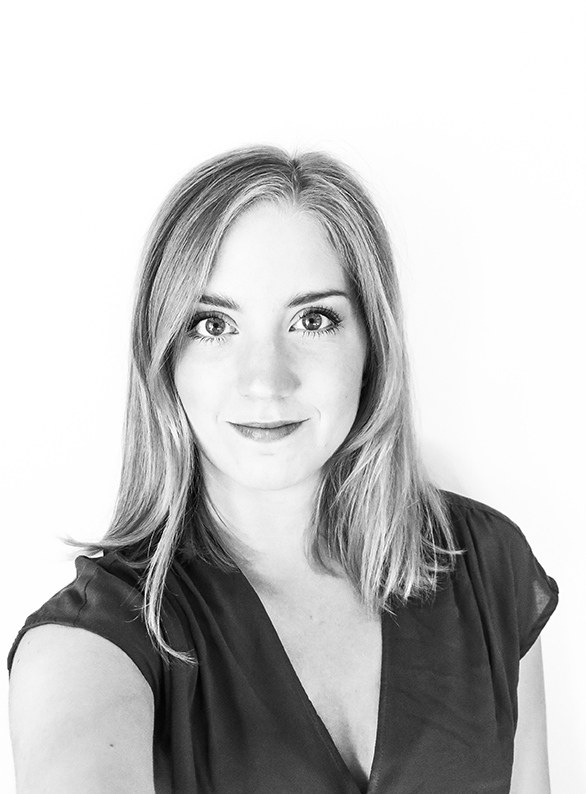
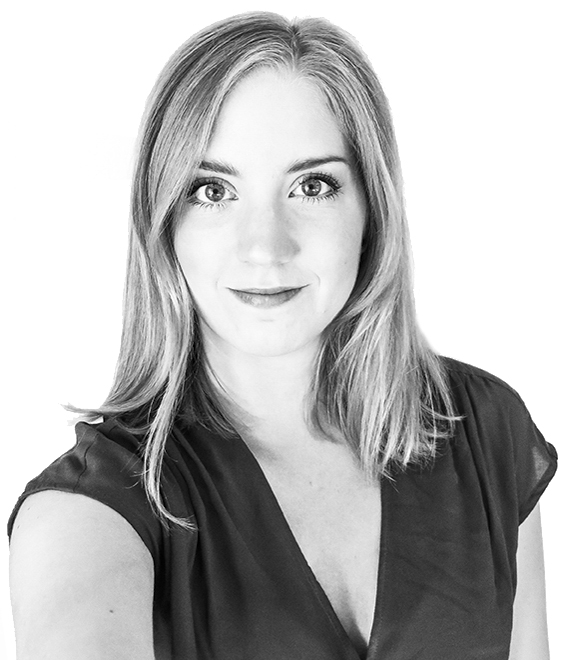
header

diff --git a/index.html b/index.html
@@ -3,6 +3,7 @@
     <head>
         <meta charset="utf-8">
         <title>Emma Boman - visual designer and web developer</title>
+        <link href="https://fonts.googleapis.com/css?family=Kavivanar" rel="stylesheet">
     </head>
     <body>
         <header>
@@ -18,11 +19,9 @@
                     <h1>Emma Boman</h1>
                     <p>Visual designer / Front end developer / Wordpress</p>
                     <a href="#contact">contact me</a>
-                    <p>or</p>
-                    <a href="#work">Take a look at my work</a>
                 </div>
                 <div class="half-width">
-                    <img src="img/hero.jpg">
+                    <img src="img/hero.jpg" alt="profile-picture" height="524" width="450">
                 </div>
             </div>
         </header>
@@ -38,6 +37,7 @@
                 <div class="full-width">
                     <h2>About me</h2>
                     <p>Hi! I'm  Emma, a freelance designer and developer based in Umeå, Sweden. Plain and simple, I just love design. I'm passionate about creating clean, unique, elegant designs. Designs you love. Designs that work.</p>
+                  </div>
             </section>
 
             <section id="contact">

diff --git a/css/main.css b/css/main.css
@@ -2,13 +2,23 @@
 p {
   font-family: 'Roboto', sans-serif;
   font-size: 16px;
+  color: #a3a3a3;
 }
 
+h1 {
+  font-family: 'Kavivanar', cursive;
+  font-size: 90px!important;
+  color: #ffcb2e;
+}
+
+a {
+
+}
 header {
   height: 750px;
 }
 main {
-  height: 2390px;
+  height: 2250px;
 }
 
 #work {
@@ -23,8 +33,26 @@ main {
 
 .full-width {
   width: 1100px;
+  padding: 60px;
 }
 .half-width {
   width: 550px;
   float: left;
+}
+
+/*******Header*******/
+
+nav ul li {
+  display: inline-block;
+}
+nav ul li a {
+  color: #a3a3a3;
+  font-size: 16px;
+  padding-left: 60px;
+  text-transform: uppercase;
+  text-decoration: none;
+}
+
+header h1, p {
+  text-align: center;
 }
